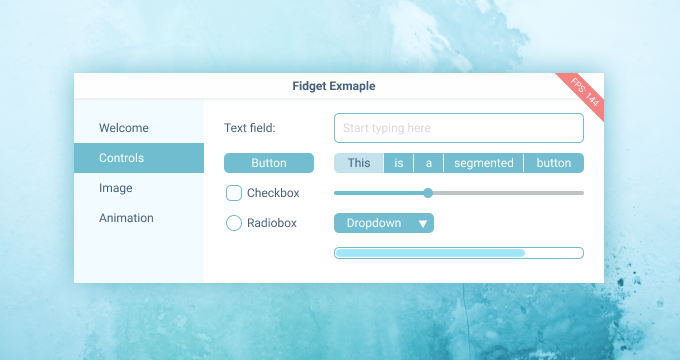
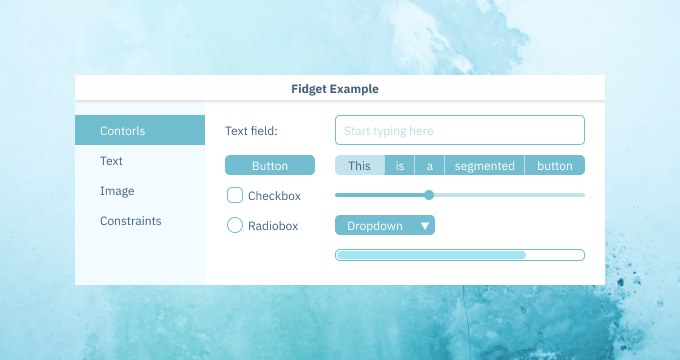
load google fonts

diff --git a/figma_plugin/code.ts b/figma_plugin/code.ts
@@ -18,6 +18,27 @@ function toHtmlColor(color): string {
   ("0" + (Math.floor(color.b*255.5)).toString(16)).slice(-2) ;
 }
 
+let fontStyleMapping = {
+  Thin: 100,
+  ThinItalic: 100,
+  ExtraLight: 200,
+  ExtraLightItalic: 200,
+  Light: 300,
+  LightItalic: 300,
+  Regular: 400,
+  RegularItalic: 400,
+  Medium: 500,
+  MediumItalic: 500,
+  SemiBold: 600,
+  SemiBoldItalic: 600,
+  Bold: 700,
+  BoldItalic: 700,
+  ExtraBold: 800,
+  ExtraBoldItalic: 800,
+  Black: 900,
+  BlackItalic: 900,
+}
+
 var text = ""
 var indent = 0
 var at = {x:0, y:0}
@@ -38,7 +59,6 @@ function visitFill(fill) {
   }
 }
 
-
 function visitStroke(fill) {
   // text += ind() + `fill color(${fill.color.r}, ${fill.color.g}, ${fill.color.b}, ${fill.opacity})\n`
   if(fill.color != undefined){
@@ -47,6 +67,15 @@ function visitStroke(fill) {
     } else {
       text += ind() + `stroke ${JSON.stringify(toHtmlColor(fill.color))}\n`
     }
+  }
+}
+
+function visitEffect(effect: Effect) {
+  // text += ind() + JSON.stringify(effect) + "\n"
+  if (effect.type == "DROP_SHADOW" && effect.visible) {
+    text += ind() + `dropShadow ${effect.radius}, ${effect.offset.x}, ${effect.offset.y}, ${JSON.stringify(toHtmlColor(effect.color))}, ${effect.color.a}\n`
+  } else if (effect.type == "INNER_SHADOW" && effect.visible) {
+    text += ind() + `innerShadow ${effect.radius}, ${effect.offset.x}, ${effect.offset.y}, ${JSON.stringify(toHtmlColor(effect.color))}, ${effect.color.a}\n`
   }
 }
 
@@ -74,7 +103,12 @@ function visit(node) {
     return
   }
 
-  //text += ind() + `exportSettings ${node.exportSettings}\n`
+ if (node.exportSettings.length > 0){
+    // text += ind() + `exportSettings ${JSON.stringify(node.exportSettings)}\n`
+    text += ind() + `image ${q(node.name + ".png")}\n`
+    indent -= 1
+    return
+  }
 
   if (node.type == "FRAME"){
     for(let fill of node.backgrounds){
@@ -95,11 +129,22 @@ function visit(node) {
   }
 
   if(node.cornerRadius != undefined && node.cornerRadius != figma.mixed){
-    text += ind() + `cornerRadius ${node.cornerRadius}\n`
+    if (node.cornerRadius != 0){
+      text += ind() + `cornerRadius ${node.cornerRadius}\n`
+    }
   }
 
   if(node.strokeWeight != undefined) {
-    text += ind() + `strokeWeight ${node.strokeWeight}\n`
+    if (node.strokeWeight != 0 && node.strokes.length != 0) {
+      text += ind() + `strokeWeight ${node.strokeWeight}\n`
+    }
+  }
+
+
+  if(node.effects != undefined){
+    for(let effect of node.effects){
+      visitEffect(effect)
+    }
   }
 
   if (node.type == "TEXT"){
@@ -117,19 +162,23 @@ function visit(node) {
     console.log(node)
     console.log(node.lineHeight)
 
-    let fontFamily = JSON.stringify(node.fontName.family + " " + node.fontName.style)
+    let fontFamily = JSON.stringify(node.fontName.family)
     var lineHeight = 0
     if (node.lineHeight.unit == "PIXELS"){
       lineHeight = node.lineHeight.value
     }
+    let fontWeight = fontStyleMapping[node.fontName.style]
+
+    //text += ind() + "???" + JSON.stringify(node.getRangeLineHeight(0, 1)) + "\n"
     //text += ind() + `lineHeight ${node.lineHeight.unit} ${node.lineHeight.value}\n`
+
     var h = 0
     if (node.textAlignHorizontal == "LEFT") h = -1
     if (node.textAlignHorizontal == "RIGHT") h = 1
     var v = 0
     if (node.textAlignVertical == "TOP") v = -1
     if (node.textAlignVertical == "BOTTOM") v = 1
-    text += ind() + `font ${fontFamily}, ${node.fontSize}, 200, ${lineHeight}, ${h}, ${v}\n`
+    text += ind() + `font ${fontFamily}, ${node.fontSize}, ${fontWeight}, ${lineHeight}, ${h}, ${v}\n`
 
     text += ind() + "characters " + JSON.stringify(node.characters) + "\n"
   }
